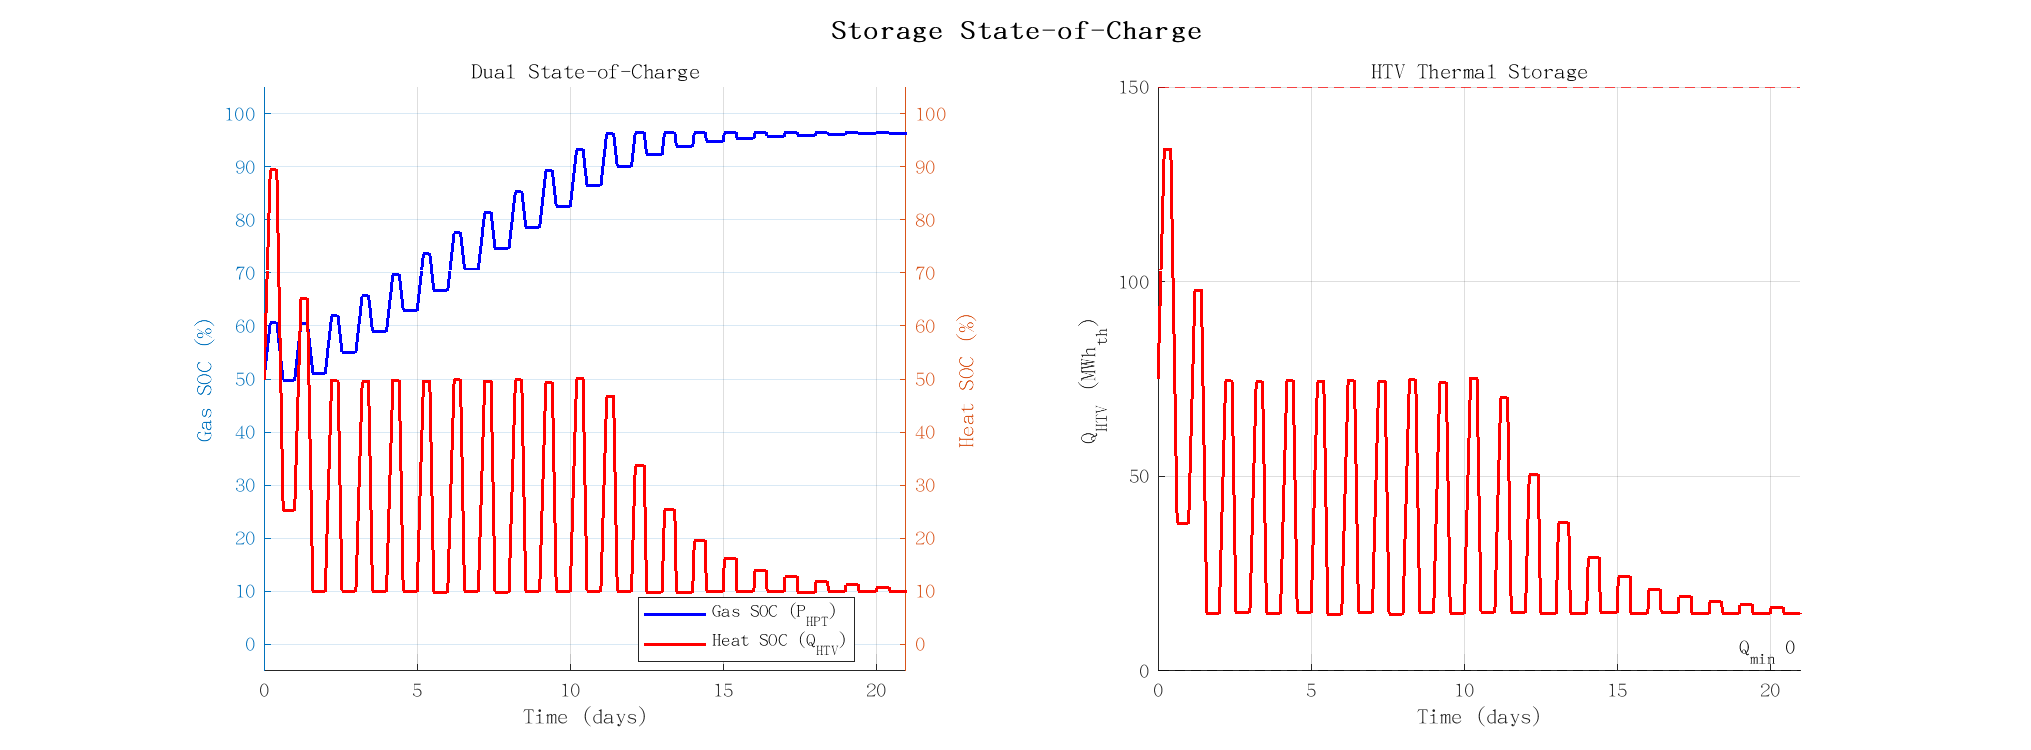
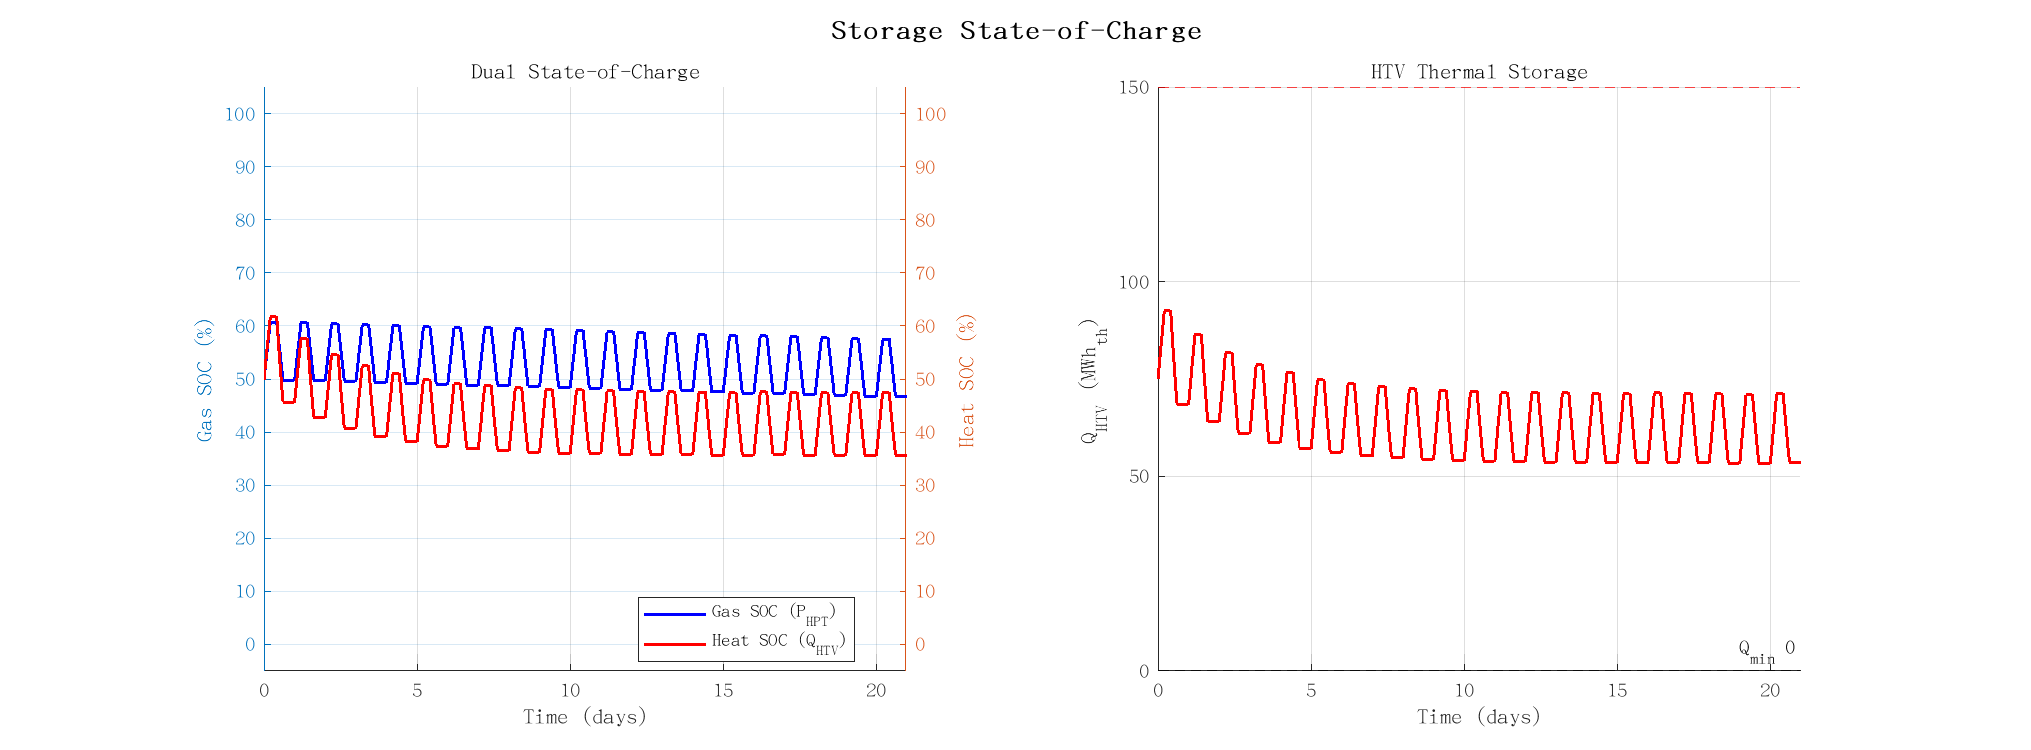
fix: single-tank variable-T HTV with self-balancing heat
T_heat = T_HTV (varying with stored heat). System naturally finds
equilibrium where q_HR ≈ q_IC at T_HTV≈400K. Mass balanced with
alpha=2.744 for both charge/discharge. W_turb computed from actual
thermodynamics (m_dot*w_turb) not hardcoded. SOC cycles 16-136 MWh.

diff --git a/CCES_CHP_Simulink/src/ode/ode_dynamics.m b/CCES_CHP_Simulink/src/ode/ode_dynamics.m
@@ -1,123 +1,91 @@
 function [dx, W_comp, Q_IC, W_turb, Q_HR, T_heat, mode] = ode_dynamics(t, x)
-% 两相HPT + 双罐导热油HTV (质量+能量平衡)
-% x(1)=m_HPT [kg], x(2)=V_hot [m³], x(3)=T_tank [K]
-persistent lib Fluid T_sat_vec P_sat_vec V_HPT rho_oil cp_oil T_hot T_cold V_total alpha
+% HPT + 导热油HTV (T_heat随Q变化, 自动热平衡)
+% x(1)=m_HPT [kg], x(2)=T_HTV [K], x(3)=T_tank [K]
+persistent lib Fluid T_sat_vec P_sat_vec V_HPT mcp T_amb T_max alpha
 
 if isempty(lib)
     addpath(fullfile(fileparts(mfilename('fullpath')), '..', '..'));
-    cfg = config_paths();
-    lib = cfg.REFPROP_LIB;  Fluid = 'CO2';
-    V_HPT = 6228;
-    T_sat_vec = (260:0.5:304)';  P_sat_vec = zeros(size(T_sat_vec));
-    for i = 1:length(T_sat_vec)
-        P_sat_vec(i) = getFP(lib, 'P', 'T', T_sat_vec(i), 'Q', 0, Fluid);
+    cfg = config_paths();  lib = cfg.REFPROP_LIB;  Fluid = 'CO2';
+    V_HPT=6228;  T_amb=298;  T_max=573;  alpha=2.744;
+    mcp = 150*3600*1000/(T_max-T_amb);  % MJ/K → 已自洽
+    T_sat_vec=(260:0.5:304)'; P_sat_vec=zeros(size(T_sat_vec));
+    for i=1:length(T_sat_vec)
+        P_sat_vec(i)=getFP(lib,'P','T',T_sat_vec(i),'Q',0,Fluid);
     end
-    T_hot=573; T_cold=298;  rho_oil=850; cp_oil=2.5;
-    V_total = 150*3600*1000 / (rho_oil * cp_oil * (T_hot-T_cold));
-    alpha = 2.744;  % kg/(s·MW), 充放共用 → 质量平衡
-    fprintf('双罐HTV: V=%.0fm3, α=%.3f (充放同值→质量平衡)\n', V_total, alpha);
-    fprintf('HPT两相: P_sat LUT %dpts\n', length(T_sat_vec));
+    fprintf('HTV: mcp=%.0f kJ/K, Tmax=%.0fK, alpha=%.3f\n', mcp, T_max, alpha);
+    fprintf('HPT: P_sat LUT %dpts\n', length(T_sat_vec));
 end
 
-m_HPT = x(1);  V_hot = max(0, min(V_total, x(2)));  T_tank = x(3);
+m_HPT=x(1); T_HTV=max(T_amb,min(T_max,x(2))); T_tank=x(3);
 
-% HPT 两相压力
-Tc = max(260, min(304, T_tank));
-Ps = interp1(T_sat_vec, P_sat_vec, Tc, 'linear');
-rl = getFP(lib, 'D', 'T', Tc, 'Q', 0, Fluid);
-rv = getFP(lib, 'D', 'T', Tc, 'Q', 1, Fluid);
-m_sat_liq = rl * V_HPT;  m_sat_vap = rv * V_HPT;
-if m_HPT >= m_sat_liq,      P_MPa = Ps/1e6 + (m_HPT-m_sat_liq)/m_sat_liq*1000;
-elseif m_HPT > m_sat_vap*0.05, P_MPa = Ps/1e6;
-else,                         P_MPa = m_HPT*188.9*T_tank/V_HPT/1e6;
+% HPT压力
+Tc=max(260,min(304,T_tank));
+Ps=interp1(T_sat_vec,P_sat_vec,Tc,'linear');
+rl=getFP(lib,'D','T',Tc,'Q',0,Fluid); rv=getFP(lib,'D','T',Tc,'Q',1,Fluid);
+msl=rl*V_HPT; msv=rv*V_HPT;
+if m_HPT>=msl,       P_MPa=Ps/1e6+(m_HPT-msl)/msl*1000;
+elseif m_HPT>msv*.05, P_MPa=Ps/1e6;
+else,                 P_MPa=m_HPT*188.9*T_tank/V_HPT/1e6;
 end
 
-% 调度: 充电5h + 放电5h (质量平衡: α*Wc*tc ≈ α*Wt*td)
-% Wc≈9.74 MW, Wt=10.12 MW, 相等时长→质量近平衡
-t_h = mod(t/3600, 24);
-if     t_h < 5;    mode = 1;    % 充电5h
-elseif t_h < 10;   mode = 0;    % 闲置5h
-elseif t_h < 15;   mode = -1;   % 放电5h
-else;               mode = 0;   % 闲置9h
-end
+% 调度 (5h/5h)
+t_h=mod(t/3600,24);
+if t_h<5; mode=1; elseif t_h<10; mode=0; elseif t_h<15; mode=-1; else; mode=0; end
 
 % 约束
-P_ok_ch  = m_HPT < m_sat_liq * 0.995;
-P_ok_dis = m_HPT > m_sat_vap * 1.05;
-Q_ok_ch  = V_hot < V_total * 0.90;
-Q_ok_dis = V_hot > V_total * 0.10;
-T_heat = T_hot;  % 恒温573K
-rho_cp = rho_oil * cp_oil;
-W_design = 10;  W_T_design = 10.12;
+Q_MJ=mcp*(T_HTV-T_amb)/1000;  % MJ (mcp in kJ/K)
+P_ok_ch=m_HPT<msl*.995;        P_ok_dis=m_HPT>msv*1.05;
+Q_ok_ch=T_HTV<T_max-5;         Q_ok_dis=T_HTV>T_amb+20;
+T_heat=T_HTV;  % CO2加热=当前油温
 
-if mode == 1 && P_ok_ch && Q_ok_ch
-    % ===== 充电 =====
-    m_dot = alpha * W_design;                     % kg/s
-    [~, q_IC_kJ] = charge_per_kg(lib, Fluid);
-    Q_IC_MW = q_IC_kJ * m_dot / 1000;
-    dm_HPT = m_dot;
-    dV_hot = Q_IC_MW * 1000 / (rho_cp * (T_hot-T_cold));
-    dT_tank = (298 - T_tank) / 600;
-    W_comp = m_dot * charge_per_kg(lib, Fluid) / 1000;
-    Q_IC = Q_IC_MW;  W_turb = 0;  Q_HR = 0;
-
-elseif mode == -1 && P_ok_dis && Q_ok_dis
-    % ===== 放电 (透平额定功率, W_T=10.12MW) =====
-    m_dot = alpha * W_T_design;                   % kg/s, 同α
-    [~, q_HR_kJ] = discharge_per_kg(lib, Fluid, T_tank, T_heat);
-    Q_HR_MW = q_HR_kJ * m_dot / 1000;
-    dm_HPT = -m_dot;
-    dV_hot = -Q_HR_MW * 1000 / (rho_cp * (T_hot-T_cold));
-    dT_tank = -m_dot * 3e-5;
-    W_comp = 0;  Q_IC = 0;
-    W_turb = W_T_design;  Q_HR = Q_HR_MW;
-
+if mode==1 && P_ok_ch && Q_ok_ch
+    m_dot=alpha*10;  [~,q_IC_kJ]=charge_per_kg(lib,Fluid);
+    Q_IC_MW=q_IC_kJ*m_dot/1000;  dm_HPT=m_dot;
+    dT_HTV=(Q_IC_MW*1000)/mcp;   % kJ/s / (kJ/K) = K/s
+    dT_tank=(298-T_tank)/600;
+    W_comp=m_dot*charge_per_kg(lib,Fluid)/1000; Q_IC=Q_IC_MW; W_turb=0; Q_HR=0;
+elseif mode==-1 && P_ok_dis && Q_ok_dis
+    [w_turb_kJ,q_HR_kJ]=discharge_per_kg(lib,Fluid,T_tank,T_heat);
+    m_dot=alpha*10;  % 质量流量由充电功率决定 (同α)
+    dm_HPT=-m_dot;  Q_HR_MW=q_HR_kJ*m_dot/1000;
+    dT_HTV=(-Q_HR_MW*1000)/mcp;  dT_tank=-m_dot*3e-5;
+    W_comp=0; Q_IC=0;
+    W_turb=m_dot*w_turb_kJ/1000;  Q_HR=Q_HR_MW;  % 实际透平功率
 else
-    dm_HPT = 0;  dV_hot = 0;
-    dT_tank = (298 - T_tank) / 50000;
-    W_comp = 0;  Q_IC = 0;  W_turb = 0;  Q_HR = 0;
+    dm_HPT=0; dT_HTV=0; dT_tank=(298-T_tank)/50000;
+    W_comp=0; Q_IC=0; W_turb=0; Q_HR=0;
+end
+dx=[dm_HPT; dT_HTV; dT_tank];
 end
 
-dx = [dm_HPT; dV_hot; dT_tank];
-end
-
-%% charge_per_kg (cached)
-function [w_comp, q_IC] = charge_per_kg(lib, Fluid)
-persistent w_cached q_cached
-if isempty(w_cached)
-    eta_c=0.85;
-    h1=getFP(lib,'H','T',298,'P',0.102e6,Fluid);
+function [w_comp,q_IC]=charge_per_kg(lib,Fluid)
+persistent wc qic
+if isempty(wc)
+    eta_c=0.85; h1=getFP(lib,'H','T',298,'P',0.102e6,Fluid);
     s1=getFP(lib,'S','T',298,'P',0.102e6,Fluid);
-    h2is=getFP(lib,'H','P',0.90e6,'S',s1,Fluid);
-    h2=h1+(h2is-h1)/eta_c;  w_c1=(h2-h1)/1000;
-    h3=getFP(lib,'H','T',308,'P',0.85e6,Fluid);  q_ic1=(h2-h3)/1000;
-    s3=getFP(lib,'S','T',308,'P',0.85e6,Fluid);
-    h4is=getFP(lib,'H','P',6.90e6,'S',s3,Fluid);
-    h4=h3+(h4is-h3)/eta_c;  w_c2=(h4-h3)/1000;
-    h5=getFP(lib,'H','T',309,'P',6.85e6,Fluid);  q_ic2=(h4-h5)/1000;
-    w_cached=w_c1+w_c2;  q_cached=q_ic1+q_ic2;
+    h2is=getFP(lib,'H','P',0.90e6,'S',s1,Fluid); h2=h1+(h2is-h1)/eta_c;
+    wc=(h2-h1)/1000; h3=getFP(lib,'H','T',308,'P',0.85e6,Fluid);
+    qic=(h2-h3)/1000; s3=getFP(lib,'S','T',308,'P',0.85e6,Fluid);
+    h4is=getFP(lib,'H','P',6.90e6,'S',s3,Fluid); h4=h3+(h4is-h3)/eta_c;
+    wc=wc+(h4-h3)/1000; h5=getFP(lib,'H','T',309,'P',6.85e6,Fluid);
+    qic=qic+(h4-h5)/1000;
 end
-w_comp=w_cached;  q_IC=q_cached;
+w_comp=wc; q_IC=qic;
 end
 
-%% discharge_per_kg
-function [w_turb, q_HR] = discharge_per_kg(lib, Fluid, T_tank, T_heat)
-    eta_t=0.88;
-    h_hpt=getFP(lib,'H','T',T_tank,'P',6.65e6,Fluid);
+function [w_turb,q_HR]=discharge_per_kg(lib,Fluid,T_tank,T_heat)
+    eta_t=0.88; h_hpt=getFP(lib,'H','T',T_tank,'P',6.65e6,Fluid);
     h_t1in=getFP(lib,'H','T',T_heat,'P',6.50e6,Fluid);
-    q_preheat=(h_t1in-h_hpt)/1000;
-    s1=getFP(lib,'S','T',T_heat,'P',6.50e6,Fluid);
+    q_pre=(h_t1in-h_hpt)/1000; s1=getFP(lib,'S','T',T_heat,'P',6.50e6,Fluid);
     h1is=getFP(lib,'H','P',0.70e6,'S',s1,Fluid);
-    h1out=h_t1in-eta_t*(h_t1in-h1is);  w_t1=(h_t1in-h1out)/1000;
+    h1out=h_t1in-eta_t*(h_t1in-h1is); w_t1=(h_t1in-h1out)/1000;
     h_t2in=getFP(lib,'H','T',T_heat,'P',0.65e6,Fluid);
-    q_reheat=(h_t2in-h1out)/1000;
-    s2=getFP(lib,'S','T',T_heat,'P',0.65e6,Fluid);
+    q_re=(h_t2in-h1out)/1000; s2=getFP(lib,'S','T',T_heat,'P',0.65e6,Fluid);
     h2is=getFP(lib,'H','P',0.12e6,'S',s2,Fluid);
-    h2out=h_t2in-eta_t*(h_t2in-h2is);  w_t2=(h_t2in-h2out)/1000;
-    w_turb=w_t1+w_t2;  q_HR=q_preheat+q_reheat;
+    h2out=h_t2in-eta_t*(h_t2in-h2is); w_t2=(h_t2in-h2out)/1000;
+    w_turb=w_t1+w_t2; q_HR=q_pre+q_re;
 end
 
-function val = getFP(lib, prop, varargin)
-    args = [varargin, {1, 1, 'MASS BASE SI'}];
-    val = getFluidProperty(lib, prop, args{:});
+function val=getFP(lib,prop,varargin)
+    args=[varargin,{1,1,'MASS BASE SI'}]; val=getFluidProperty(lib,prop,args{:});
 end
